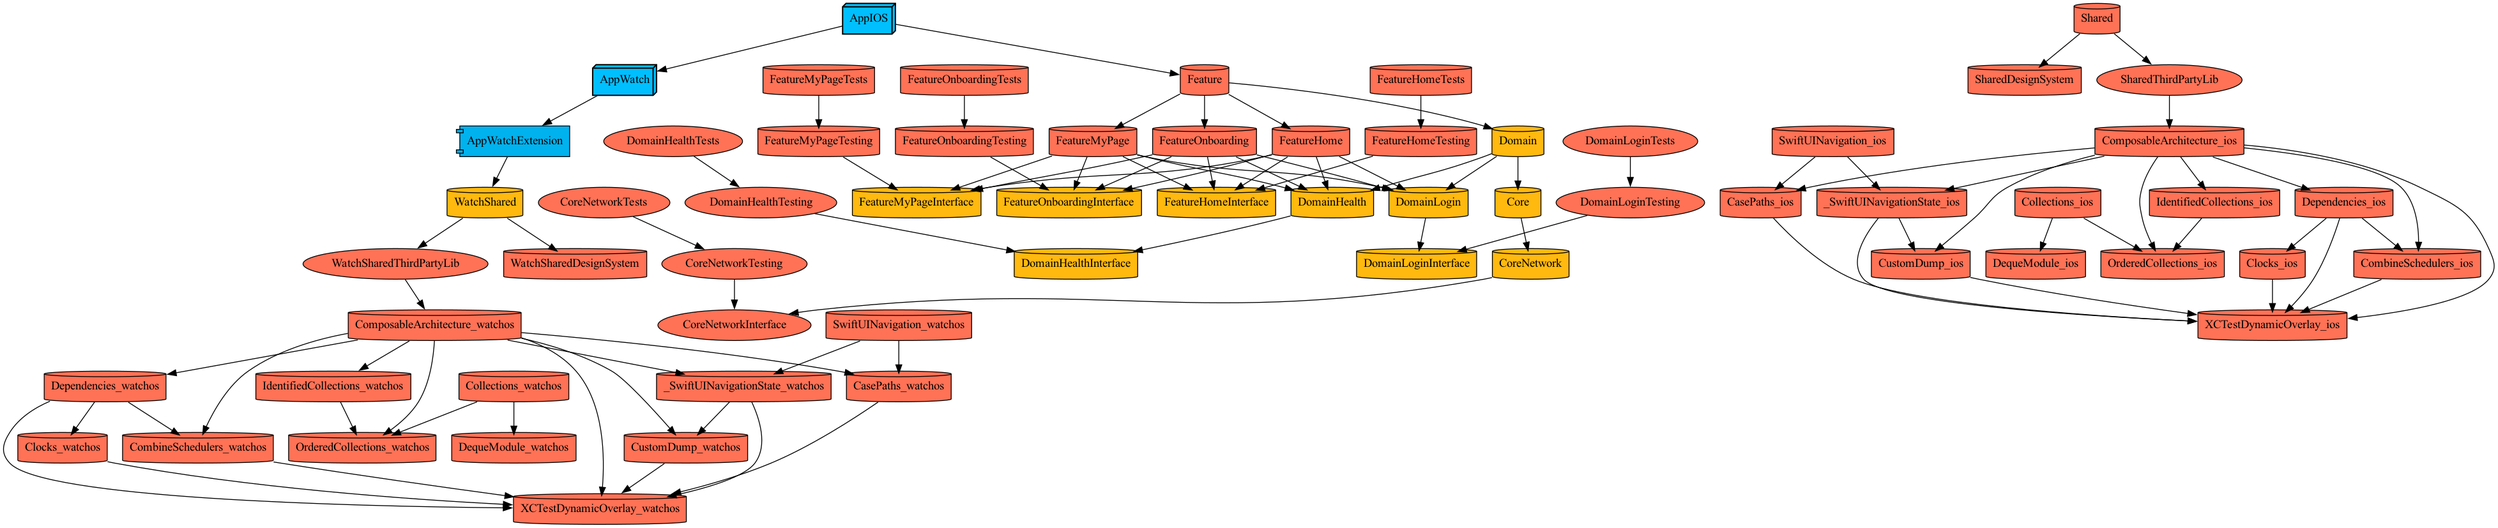
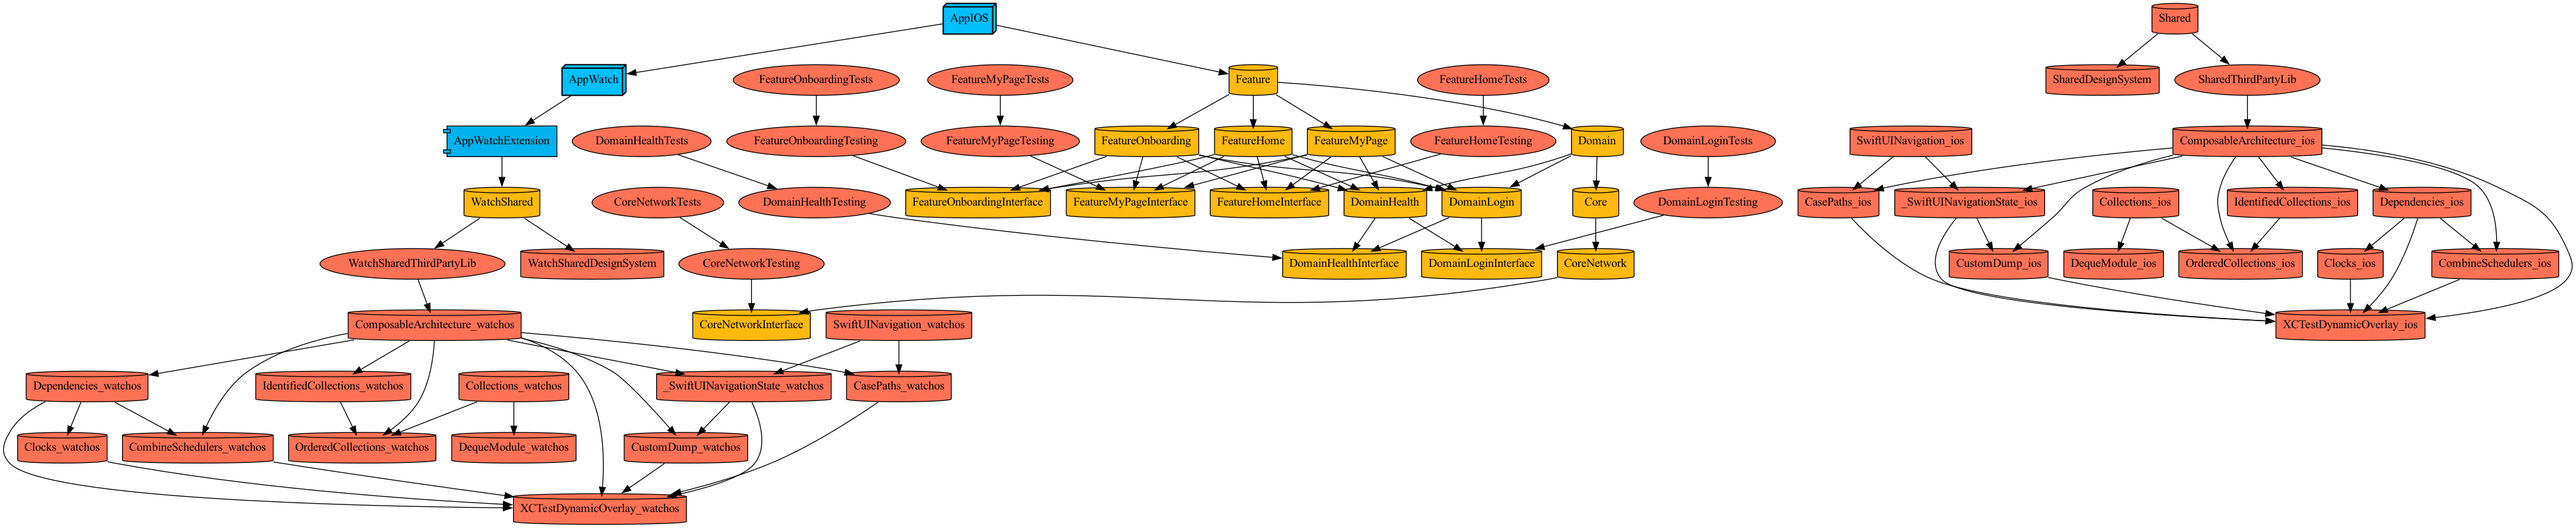
feat: 목적에 맞게 product 사용 변경

diff --git a/gather-move/Tuist/ProjectDescriptionHelpers/Target+Templates.swift b/gather-move/Tuist/ProjectDescriptionHelpers/Target+Templates.swift
@@ -132,12 +132,16 @@ public extension Target {
     static func feature(factory: TargetFactory) -> Self {
         var newFactory = factory
         newFactory.name = FeatureModule.name
+        newFactory.product = .framework
+        
         return make(factory: newFactory)
     }
     
     static func feature(implements module: FeatureModule, factory: TargetFactory) -> Self {
         var newFactory = factory
         newFactory.name = FeatureModule.name + module.rawValue
+        newFactory.product = .framework
+        
         return make(factory: newFactory)
     }
     
@@ -145,6 +149,8 @@ public extension Target {
         var newFactory = factory
         newFactory.name = FeatureModule.name + module.rawValue + "Tests"
         newFactory.sources = ["Tests/Sources/**"]
+        newFactory.product = .staticLibrary
+        
         return make(factory: newFactory)
     }
     
@@ -152,6 +158,8 @@ public extension Target {
         var newFactory = factory
         newFactory.name = FeatureModule.name + module.rawValue + "Testing"
         newFactory.sources = ["Testing/Sources/**"]
+        newFactory.product = .staticLibrary
+        
         return make(factory: newFactory)
     }
     
@@ -252,7 +260,7 @@ public extension Target {
     static func core(interface module: CoreModule, factory: TargetFactory) -> Self {
         var newFactory = factory
         newFactory.name = CoreModule.name + module.rawValue + "Interface"
-        newFactory.product = .staticLibrary
+        newFactory.product = .framework
         newFactory.sources = ["Interface/Sources/**"]
         
         return make(factory: newFactory)

diff --git a/gather-move/Projects/Domain/Health/Project.swift b/gather-move/Projects/Domain/Health/Project.swift
@@ -14,7 +14,8 @@ let targets: [Target] = [
         implements: .Health,
         factory: .init(
             dependencies: [
-                .domain(interface: .Health)
+                .domain(interface: .Health),
+                .domain(interface: .Login)
             ]
         )
     ),

diff --git a/gather-move/Projects/Domain/Login/Project.swift b/gather-move/Projects/Domain/Login/Project.swift
@@ -14,7 +14,8 @@ let targets: [Target] = [
         implements: .Login,
         factory: .init(
             dependencies: [
-                .domain(interface: .Login)
+                .domain(interface: .Login),
+                .domain(interface: .Health)
             ]
         )
     ),
